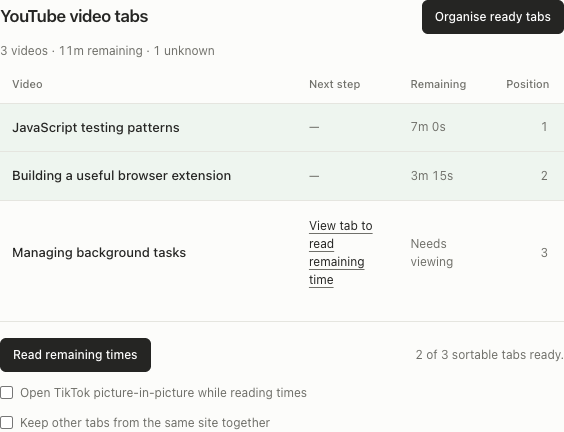
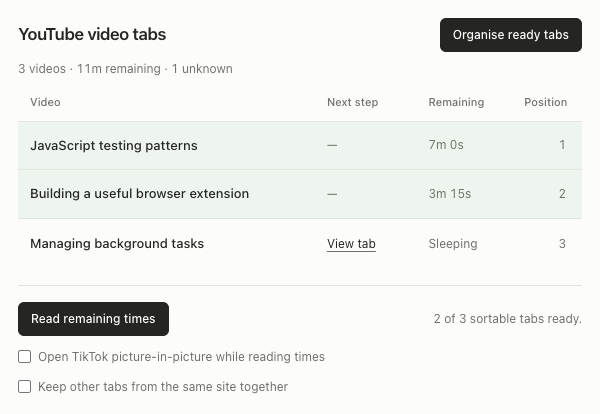
Verify preparation completion after automatic window cleanup

diff --git a/tests/e2e/extension-smoke.spec.js b/tests/e2e/extension-smoke.spec.js
@@ -156,23 +156,26 @@ test('prepares media in another window while browsing continues, then returns ta
     await browsing.getByRole('button').click();
     await expect(browsing.getByRole('button')).toHaveText('123');
     await expect.poll(() => browsing.locator('video').evaluate(video => !video.paused && video.readyState >= 2)).toBe(true);
-    await expect(progress.locator('#progress')).toHaveText('2 of 2 checked · 2 ready · 0 skipped', { timeout: 15000 });
+    await expect.poll(() => popup.evaluate(async () =>
+      (await chrome.runtime.sendMessage({ type: 'getAutoPreparation' })).autoPreparation,
+    ), { timeout: 15000 }).toMatchObject({
+      status: 'complete', total: 2, completed: 2, ready: 2, skipped: 0,
+    });
+    await expect.poll(() => progress.isClosed()).toBe(true);
     ids = await worker.evaluate(async () => (await chrome.tabs.query({ url: 'https://www.youtube.com/*' })).sort((a, b) => a.index - b.index).map(tab => tab.id));
     expect(await worker.evaluate(async ids => (await Promise.all(ids.map(id => chrome.tabs.get(id)))).map(tab => tab.windowId), ids)).toEqual([sourceWindowId, sourceWindowId]);
     const returnedTabs = await worker.evaluate(async ids => Promise.all(ids.map(id => chrome.tabs.get(id))), ids);
     expect(returnedTabs.map(tab => tab.index)).toEqual(originalTabs.map(tab => tab.index));
     expect(returnedTabs[0].groupId).toBe(originalTabs[0].groupId);
     expect(await worker.evaluate(async windowId => (await chrome.tabs.query({ windowId, active: true }))[0].url, sourceWindowId)).toContain('data:text/html');
-    await popup.close();
-    await expect(progress.getByRole('heading')).toHaveText('Finished reading times');
-    await expect.poll(() => progress.evaluate(async ids => {
+    await expect.poll(() => popup.evaluate(async ids => {
       const { windowId } = await chrome.tabs.get(ids[0]);
       const snapshot = await chrome.runtime.sendMessage({ type: 'getTabSnapshot', windowId });
       return ids.every(id => snapshot.tabRecordsById[id]?.videoDetails.remainingSeconds === 1 && !snapshot.tabRecordsById[id]?.remainingSecondsStale);
     }, ids)).toBe(true);
+    await popup.close();
 
     // These pages never expose media. Stop while the first is waiting.
-    await progress.close();
     const firstStalled = await context.newPage();
     const secondStalled = await context.newPage();
     const reopened = await context.newPage();

diff --git a/docs/preview.html b/docs/preview.html
@@ -3,7 +3,7 @@
 <head>
     <meta charset="UTF-8">
     <meta name="viewport" content="width=device-width, initial-scale=1.0">
-    <title>TabSort preview · synthetic data</title>
+    <title>TabSort preview · synthetic data</title><link rel="icon" href="data:,">
     <link rel="stylesheet" href="../popup/popup.css">
 </head>
 <body>
@@ -57,7 +57,7 @@
     <script>
 const titles = ['JavaScript testing patterns', 'Building a useful browser extension', 'Managing background tasks'];
 const records = Object.fromEntries(titles.map((title, index) => [index + 1, {
-  id: index + 1, index, windowId: 1, loadState: 'loaded', contentScriptReady: true,
+  id: index + 1, index, windowId: 1, loadState: index === 2 ? 'discarded' : 'loaded', contentScriptReady: true,
   remainingSecondsStale: index === 2,
   videoDetails: { title, remainingSeconds: index === 2 ? null : [420, 195][index] }
 }]));
